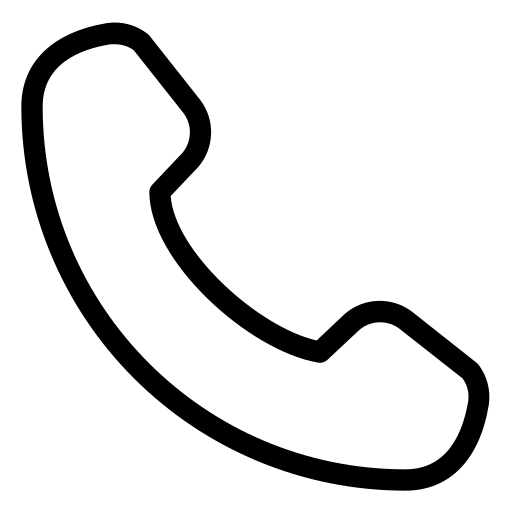
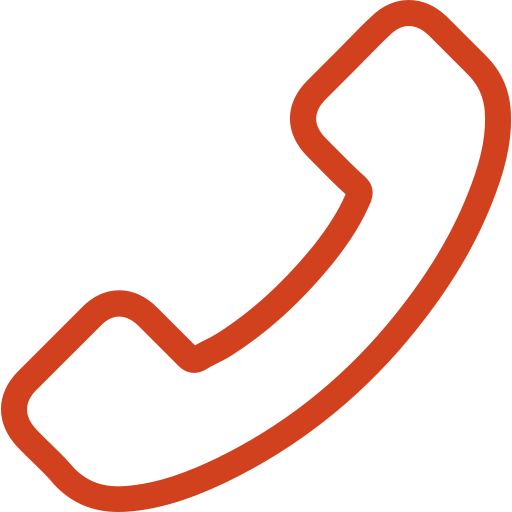
added public/img

Changed region(s): [[0.0, 0.0, 1.0, 1.0]]

diff --git a/components/Navbar.jsx b/components/Navbar.jsx
@@ -1,37 +1,37 @@
-import Image from "next/image"
-import styles from "../styles/Navbar.module.css"
+import Image from "next/image";
+import styles from "../styles/Navbar.module.css";
 
 const Navbar = () => {
-    return (
-      <div className={styles.container}>
-        <div className={styles.item}>
-          <div className={styles.callButton}>
-            <Image src="/img/telephone.png" alt="" width="32" height="32" />
-          </div>
-          <div className={styles.texts}>
-            <div className={styles.text}>ORDER NOW!</div>
-            <div className={styles.text}>012 345 678</div>
-          </div>
+  return (
+    <div className={styles.container}>
+      <div className={styles.item}>
+        <div className={styles.callButton}>
+          <Image src="/img/telephone.png" alt="" width="32" height="32" />
         </div>
-        <div className={styles.item}>
-          <ul className={styles.list}>
-            <li className={styles.listItem}>Homepage</li>
-            <li className={styles.listItem}>Products</li>
-            <li className={styles.listItem}>Menu</li>
-            <Image src="/img/logo-design.png" alt="" width="160px" height="69px" />
-            <li className={styles.listItem}>Events</li>
-            <li className={styles.listItem}>Blog</li>
-            <li className={styles.listItem}>Contact</li>
-          </ul>
-        </div>
-        <div className={styles.item}>
-          <div className={styles.cart}>
-            <Image src="/img/shopping-cart.png" alt="" width="30px" height="30px" />
-            <div className={styles.counter}>2</div>
-          </div>
+        <div className={styles.texts}>
+          <div className={styles.text}>ORDER NOW!</div>
+          <div className={styles.text}>012 345 678</div>
         </div>
       </div>
-    );
-  };
+      <div className={styles.item}>
+        <ul className={styles.list}>
+          <li className={styles.listItem}>Homepage</li>
+          <li className={styles.listItem}>Products</li>
+          <li className={styles.listItem}>Menu</li>
+          <Image src="/img/logo-design.png" alt="" width="160px" height="69px" />
+          <li className={styles.listItem}>Events</li>
+          <li className={styles.listItem}>Blog</li>
+          <li className={styles.listItem}>Contact</li>
+        </ul>
+      </div>
+      <div className={styles.item}>
+        <div className={styles.cart}>
+          <Image src="/img/shopping-cart.png" alt="" width="30px" height="30px" />
+          <div className={styles.counter}>2</div>
+        </div>
+      </div>
+    </div>
+  );
+};
 
-export default Navbar
+export default Navbar;

diff --git a/styles/Navbar.module.css b/styles/Navbar.module.css
@@ -1,80 +1,91 @@
 .container {
     height: 100px;
     padding: 0px 50px;
-    background-color: rgb(72, 137, 190);
+    background-color: #d1411e;
     display: flex;
     align-items: center;
     justify-content: space-between;
     position: sticky;
     top: 0;
-}
-
-.item {
+    z-index: 999;
+  }
+  
+  .item {
     flex: 1;
     display: flex;
     align-items: center;
-}
-
-.item:nth-child(2) {
+  }
+  
+  .item:nth-child(2) {
     flex: 3;
-}
-
-.item:last-child {
+  }
+  
+  .item:last-child {
     justify-content: flex-end;
-}
-
-.callButton {
+  }
+  
+  .callButton {
     background-color: white;
     border-radius: 50%;
     padding: 10px;
     width: 50px;
     height: 50px;
-}
-
-.texts {
+  }
+  
+  .texts {
     margin-left: 20px;
     color: white;
-}
-
-.text:first-child{
+  }
+  
+  .text:first-child {
     font-size: 12px;
     font-weight: 500;
-}
-
-.text:last-child{
+  }
+  
+  .text:last-child {
     font-size: 20px;
     font-weight: bold;
-}
-
-.list{
+  }
+  
+  .list {
     padding: 0;
     display: flex;
-    align-items: center; 
+    align-items: center;
     list-style: none;
     color: white;
-}
-
-.listItem {
+  }
+  
+  .listItem {
     margin: 20px;
     font-weight: 500;
-}
-
-.cart {
-    position: relative;
-}
-
-.counter {
-    position: absolute;
-    top: -10px;
-    right: -10px;
-    width: 20px;
-    height: 20px;
-    border-radius: 50%;
-    background-color: white;
-    padding: 3px;
-    display: flex;
-    align-items: center;
-    justify-content: center;
-    font-weight: bold;
-    color: rgb(72, 137, 190) ;
-}
+  }
+  
+  .cart{
+      position: relative;
+  }
+  
+  .counter{
+      position: absolute;
+      top: -10px;
+      right: -10px;
+      width: 20px;
+      height: 20px;
+      border-radius: 50%;
+      background-color: white;
+      padding: 3px;
+      display: flex;
+      align-items: center;
+      justify-content: center;
+      font-weight: bold;
+      color: #d1411e;
+  }
+  
+  @media screen and (max-width:480px) {
+    .item:nth-child(2) {
+      display: none;
+    }
+  
+    .item:nth-child(1) {
+      flex: 3;
+    }
+  }

diff --git a/pages/index.js b/pages/index.js
@@ -1,5 +1,6 @@
 import Head from 'next/head'
 import Image from 'next/image'
+import Featured from '../components/Featured'
 import styles from '../styles/Home.module.css'
 
 
@@ -13,10 +14,7 @@ export default function Home() {
         <meta name="description" content="Paling mantap se bogor" />
         <link rel="icon" href="/favicon.ico" />
       </Head>
-    homepage
-    
- 
-
+      <Featured />
     </div>
   )
 }

diff --git a/components/Featured.jsx b/components/Featured.jsx
@@ -1,0 +1,12 @@
+// import styles from "../styles/featured.module.css";
+// import Image from "next/image";
+
+const Featured = () => {
+    return (
+        <div>
+            featured
+        </div>
+    )
+}
+
+export default Featured
